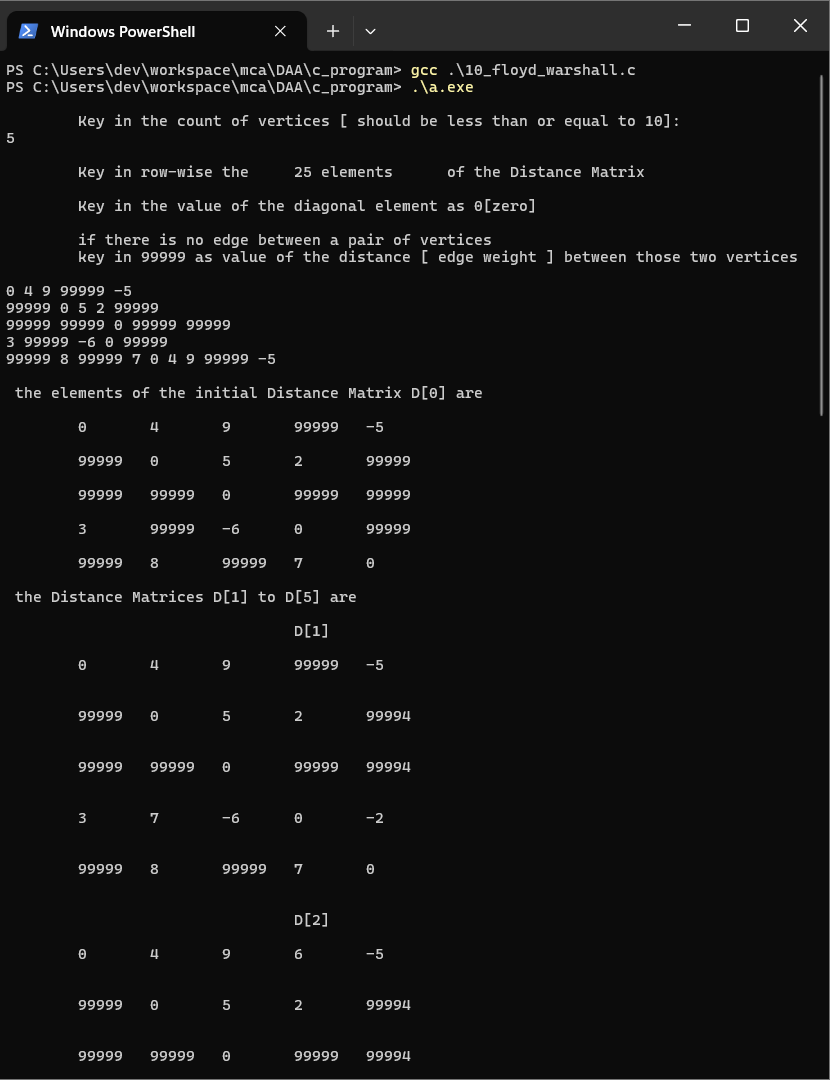
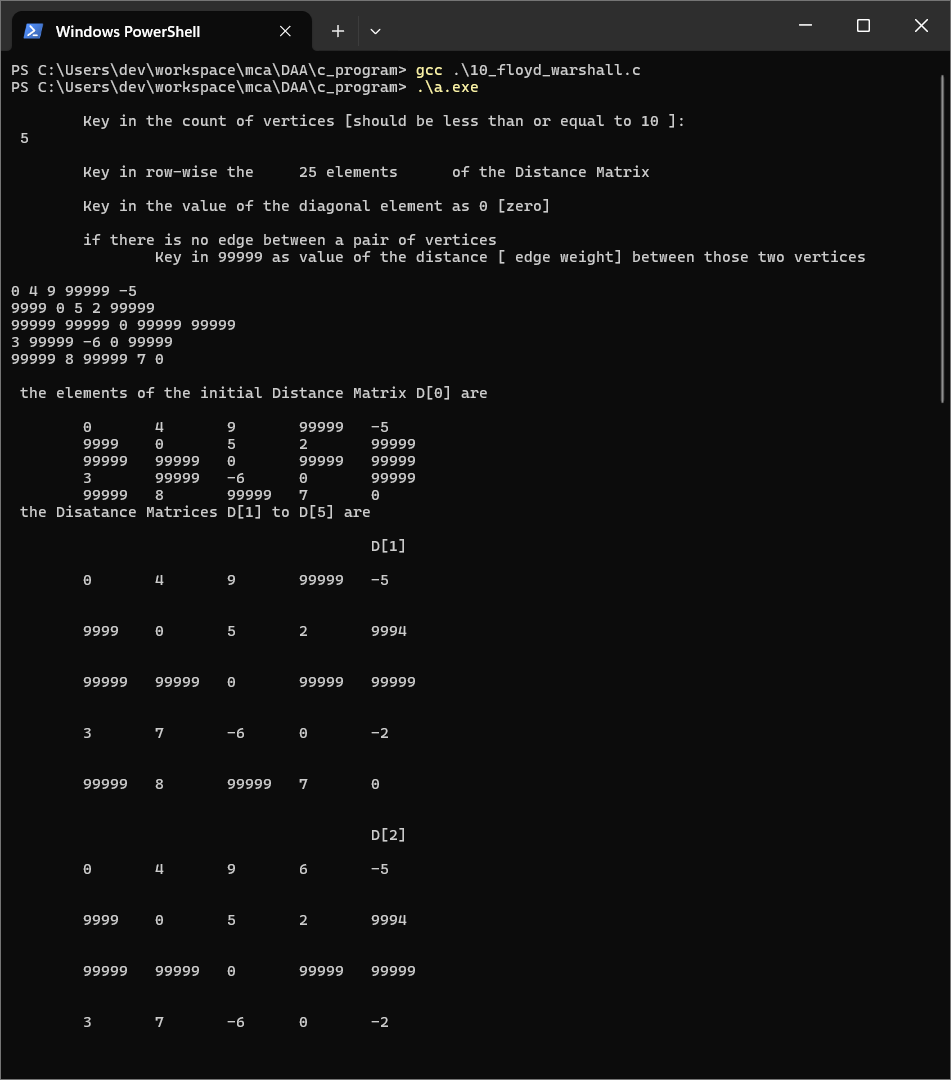
10 screenshot and source code

diff --git a/DAA/c_program/10_floyd_warshall.c b/DAA/c_program/10_floyd_warshall.c
@@ -1,8 +1,5 @@
 #include <stdio.h>
-
-// MAY NOT BE CORRECT
-
-/*
+int min(int a, int b)
 {
     if (a > 90000)
         a = 99999;
@@ -10,103 +7,80 @@
         b = 99999;
     return (a > b) ? b : a;
 }
-*/
-int min(int a, int b)
-{
-    return (a < b) ? a : b; // Corrected logic to return minimum
-}
-
-int main() // Changed void to int
+void main()
 {
     int i, j, V, x, y, N;
     int Z[11][11], D[11][11][11];
-    
-    printf("\n \tKey in the count of vertices [ should be less than or equal to 10]:\n");
+    printf("\n \tKey in the count of vertices [should be less than or equal to 10 ]:\n ");
     scanf("%d", &N);
-    
-    printf("\n \tKey in row-wise the \t%d elements\t of the Distance Matrix \n\n\tKey in the value of the diagonal element as 0[zero]\n\n\tif there is no edge between a pair of vertices \n\tkey in 99999 as value of the distance [ edge weight ] between those two vertices \n\n", N * N);
-    
-    for (i = 0; i < N; i++) // Changed from 1 to 0
-        for (j = 0; j < N; j++) // Changed from 1 to 0
+    printf("\n \tKey in row-wise the \t%d elements\t of the Distance Matrix \n\n\tKey in the value of the diagonal element as 0 [zero]\n\n\tif there is no edge between a pair of vertices \n\t\tKey in 99999 as value of the distance [ edge weight] between those two vertices \n\n", N * N);
+
+    for (i = 1; i <= N; i++)
+        for (j = 1; j <= N; j++)
             scanf("%d", &D[0][i][j]);
-    
     printf("\n the elements of the initial Distance Matrix D[0] are\n");
-    for (i = 0; i < N; i++) // Changed from 1 to 0
+    for (i = 1; i <= N; i++)
     {
         printf("\n");
-        for (j = 0; j < N; j++) // Changed from 1 to 0
+        for (j = 1; j <= N; j++)
+        {
             printf("\t%d", D[0][i][j]);
-        printf("\n");
+        }
     }
-    
-    printf("\n the Distance Matrices D[1] to D[%d] are\n", N);
-
-    // Calculating the elements of the Distance Matrixes follows
+    printf("\n the Disatance Matrices D[1] to D[%d] are\n", N);
+    // calculating the elements of the Distance Matrices follows
     for (V = 1; V <= N; V++)
     {
-        for (i = 0; i < N; i++) // Changed from 1 to 0
+        for (i = 1; i <= N; i++)
         {
-            for (j = 0; j < N; j++) // Changed from 1 to 0
+            for (j = 1; j <= N; j++)
             {
+
                 x = D[V - 1][i][j];
-                y = D[V - 1][i][V - 1] + D[V - 1][V - 1][j]; // Adjusted index for V
+                y = D[V - 1][i][V] + D[V - 1][V][j];
                 D[V][i][j] = min(x, y);
+                D[V][1][1] = D[V][2][2] = D[V][3][3] = D[V][4][4] = D[V][5][5] = 0;
             }
         }
-        
-        // Setting diagonal elements inside this loop
-        for (i = 0; i < N; i++) // Changed from 1 to 0
-            D[V][i][i] = 0;
     }
-    
     for (V = 1; V <= N; V++)
     {
-        printf("\n \t\t\t\tD[%d]\n", V);
-        for (i = 0; i < N; i++) // Changed from 1 to 0
+        printf("\n \t\t\t\t\tD[%d]\n", V);
+        for (i = 1; i <= N; i++)
         {
             printf("\n");
-            for (j = 0; j < N; j++) // Changed from 1 to 0
+            for (j = 1; j <= N; j++)
             {
                 printf("\t%d", D[V][i][j]);
             }
             printf("\n\n");
         }
     }
-    
     // printing the all pair shortest distance between the vertices
-    printf("\n The all pair shortest path between the vertices are given in the following Matrix D[%d]\n\n", V - 1);
-    printf("\n \t\t\t\tD[%d] is\n\n", V - 1);
-    
-    for (j = 0; j < N + 1; j++) // Changed from <= to <
-        Z[1][j] = j;
-    
+
+    printf("\n The all pair shortest path between the vetices are given in the following Matrix D[%d]\n\n", V - 1);
+    printf("\n \t\t\t\t\tD[%d] is\n\n", V - 1);
+    for (j = 1; j <= N + 1; j++)
+        Z[1][j] = j - 1;
     for (i = 2; i <= N + 1; i++)
         Z[i][1] = i - 1;
-    
     printf("\n");
-
     for (i = 2; i <= N + 1; i++)
         for (j = 2; j <= N + 1; j++)
-            Z[i][j] = D[N - 1][i - 2][j - 2]; // Adjusted index for D
-    
+            Z[i][j] = D[N][i - 1][j - 1];
     printf("\t");
     for (j = 2; j <= N + 1; j++)
         printf("\tV%d", Z[1][j]);
-    
     printf("\n\n");
-    
     for (i = 2; i <= N + 1; i++)
     {
         printf("\n");
         printf("\tV%d", Z[i][1]);
-        
         for (j = 2; j <= N + 1; j++)
+        {
             printf("\t%d", Z[i][j]);
-        
+        }
         printf("\n");
     }
-    
     printf("\n");
-    
-    return 0; // Added return statement
 }
